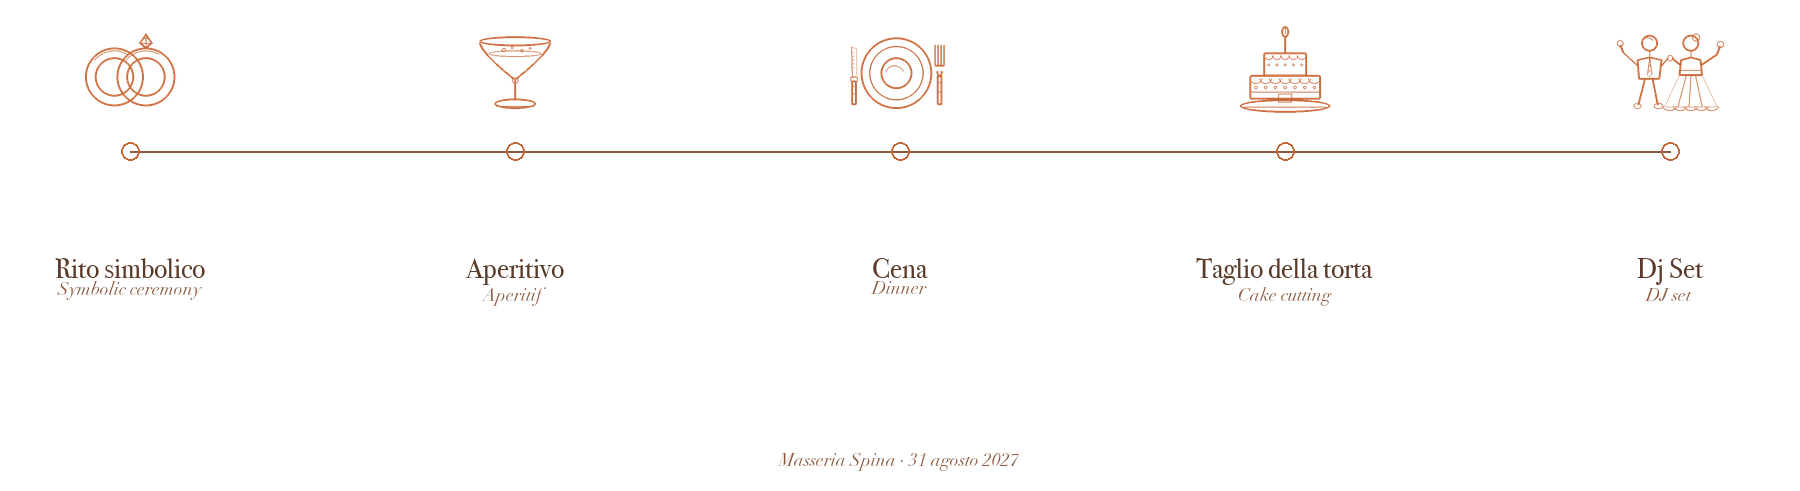
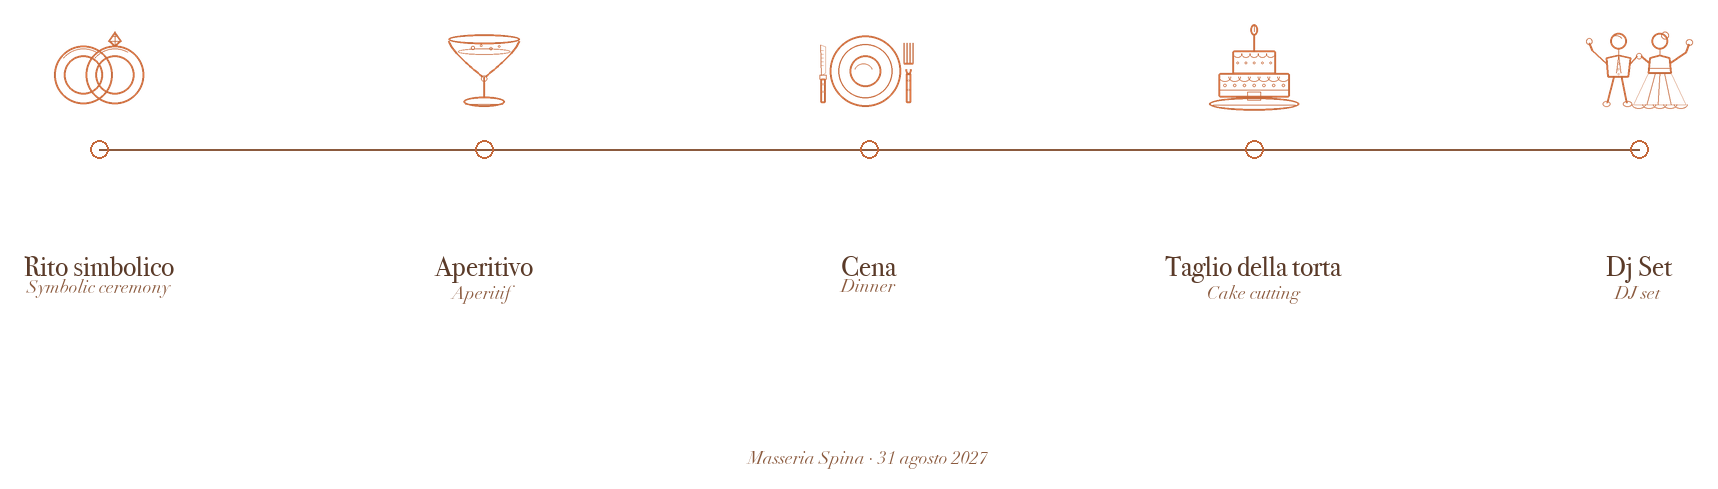
fix: enlarge program timeline for readability
Widen the timeline past the copy column (up to 7xl) and keep a larger
min-width on small screens with horizontal scroll so thin line-art labels
stay legible. Trim empty PNG padding and sync intrinsic dimensions.

diff --git a/components/place-day-section.tsx b/components/place-day-section.tsx
@@ -49,14 +49,16 @@ export function PlaceDaySection() {
             <p className="text-xs tracking-[0.2em] text-primary/80 uppercase">
               {t("dayFlowLabel")}
             </p>
-            <div className="mt-6 w-full overflow-x-auto">
+            {/* Wider than the copy column so thin line-art labels stay readable */}
+            <div className="relative left-1/2 mt-8 w-screen max-w-[100vw] -translate-x-1/2 overflow-x-auto px-4 md:px-8">
               <Image
                 src={wedding.images.timeline.src}
                 alt={wedding.images.timeline.alt}
                 width={wedding.images.timeline.width}
                 height={wedding.images.timeline.height}
-                className="mx-auto h-auto w-full max-w-4xl"
-                sizes="(max-width: 896px) 100vw, 896px"
+                className="mx-auto h-auto w-[min(100%,72rem)] min-w-[40rem] sm:min-w-[52rem] md:min-w-0 md:max-w-6xl lg:max-w-7xl"
+                sizes="(max-width: 640px) 640px, (max-width: 1024px) 896px, 1280px"
+                priority={false}
               />
             </div>
           </div>

diff --git a/lib/wedding.ts b/lib/wedding.ts
@@ -38,8 +38,8 @@ export const wedding = {
     timeline: {
       src: "/program-timeline.png",
       alt: "Rito simbolico · Aperitivo · Cena · Taglio della torta · Dj Set",
-      width: 1800,
-      height: 491,
+      width: 1718,
+      height: 489,
     },
     /** Couple photo in China section — landscape, horizon horizontal */
     china: {
